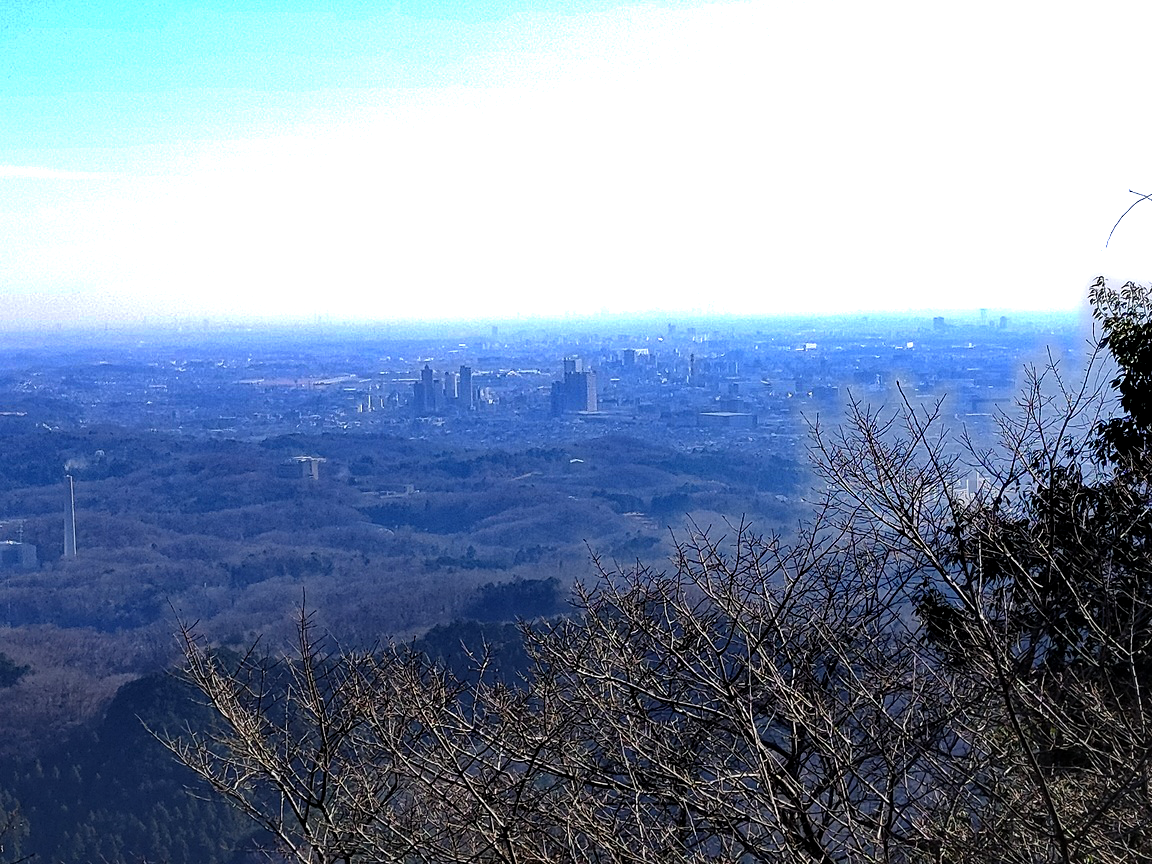
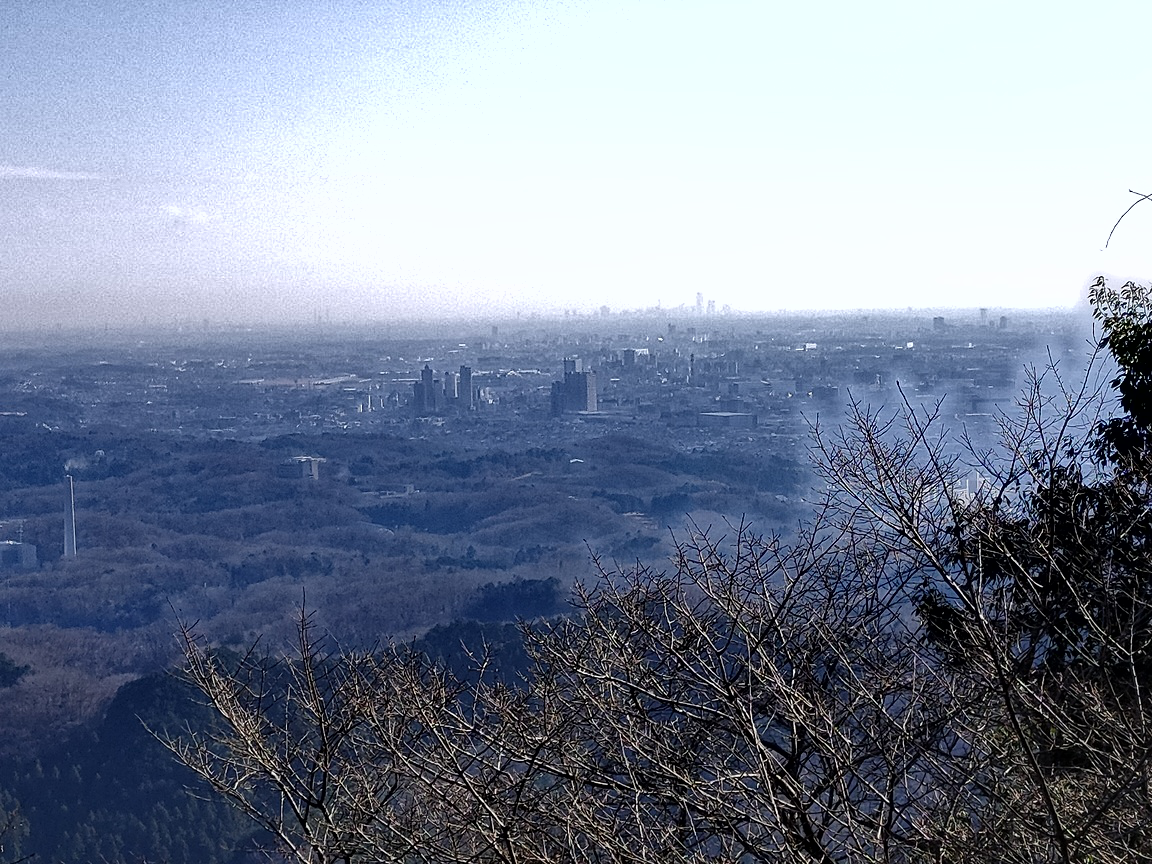
static3 postprocessing comparison

diff --git a/scripts/rgb_hist.py b/scripts/rgb_hist.py
@@ -1,0 +1,28 @@
+import cv2
+import matplotlib.pyplot as plt
+import argparse
+import numpy as np
+
+def parse_args():
+    parser = argparse.ArgumentParser()
+    parser.add_argument("-i", "--input_path")
+    parser.add_argument("-o", "--output_path")
+    args = parser.parse_args()
+    return args
+
+def main():
+    args = parse_args()
+    img = cv2.imread(args.input_path)
+    fig = plt.figure(figsize=(15, 5))
+    for i in range(2, -1, -1):
+        channel = img[:,:,i]
+        fig.add_subplot(1, 3, 3-i)
+        counts, bins = np.histogram(channel, range(257))
+        plt.bar(bins[:-1] - 0.5, counts, width=1, edgecolor='none')
+        plt.xlim([-0.5, 255.5])
+        plt.title("BGR"[i])
+        # plt.show()
+    plt.savefig(args.output_path)
+
+if __name__ == "__main__":
+    main()

diff --git a/scripts/dehaze2.py b/scripts/dehaze2.py
@@ -34,9 +34,13 @@ def dehaze(luminance, t, A):
 
 def adjust_color(img):
     b, g, r = cv2.split(img)
+    
     b = b.astype('double')
     g = g.astype('double')
     r = r.astype('double')
+    # b = cv2.normalize(b, None, 0, 255, cv2.NORM_MINMAX)
+    # g = cv2.normalize(g, None, 0, 255, cv2.NORM_MINMAX)
+    # r = cv2.normalize(r, None, 0, 255, cv2.NORM_MINMAX)
     b = simplest_color_balance(b)
     g = simplest_color_balance(g)
     r = simplest_color_balance(r)

diff --git a/scripts/he.py b/scripts/he.py
@@ -10,12 +10,12 @@ def hisEqulColor(img):
     return img
 
 
-fname='./sample/architecture1-Hekm.png'
+fname='./test.png'
 img=cv2.imread(fname)
 
 # cv2.imshow('img', img)
 img2=hisEqulColor(img)
-cv2.imwrite("res.png", img2)
+cv2.imwrite("he_static3.png", img2)
 # plt.imshow(img2)
 # plt.show()
 # a = input()
